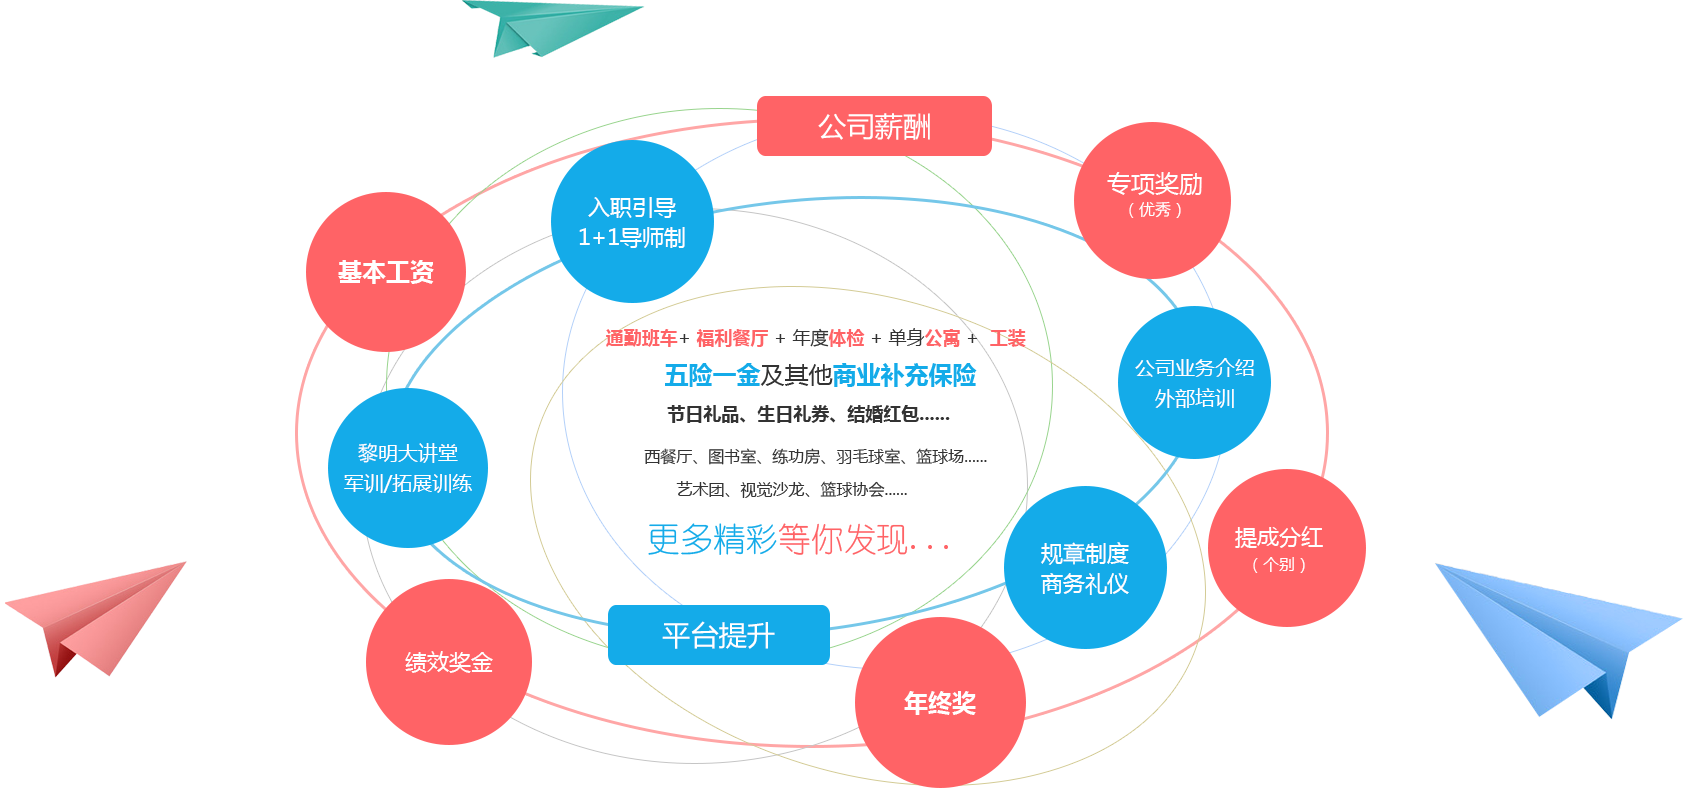
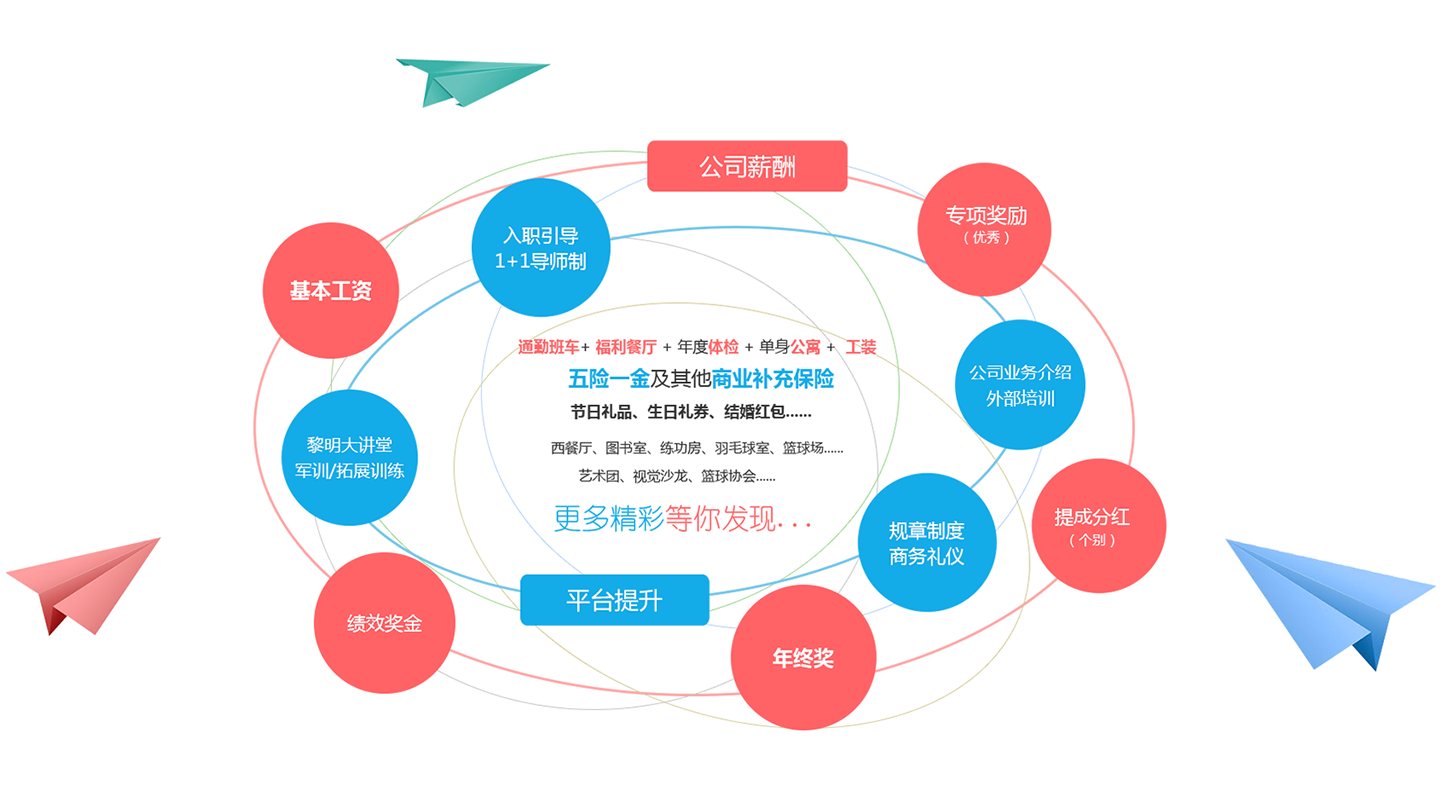
l

diff --git a/css/index.css b/css/index.css
@@ -1,1 +1,1 @@
-.banner img{max-width:100%;margin:0 auto;display:block}@media (min-width: 1000px){.lm-intro{padding-top:60px;padding-bottom:47px}}@media (min-width: 320px) and (max-width: 999px){.lm-intro{padding-top:30px;padding-bottom:20px}}.lm-intro h2{font-size:32px;font-weight:normal;text-align:center;padding-bottom:24px}.lm-intro p{line-height:30px;font-size:16px;padding-top:5px;padding-bottom:5px}.lm-intro p span{font-weight:bold;font-size:16px}.video-img{padding-bottom:70px}@media (min-width: 320px) and (max-width: 999px){.video-img{padding-bottom:40px}}.video-img video{max-width:100%;margin:0 auto;display:block}@media (min-width: 320px) and (max-width: 999px){.video-img video{margin-bottom:10px}}.video-img .img-12{padding-bottom:5px}.video-img .img-1{width:59%;float:left;padding-right:2.5px}.video-img .img-2{width:41%;padding-left:2.5px}.video-img .img-3{width:40%;padding-right:2.5px;float:left}.video-img .img-4{width:60%;padding-left:2.5px}.fuli{padding-bottom:50px}@media (min-width: 320px) and (max-width: 999px){.fuli{padding-top:10px}}@media (min-width: 320px) and (max-width: 999px){.fuli .ffll{display:none}}.fuli img{max-width:100%;margin:0 auto;display:block}.fuli h2{text-align:center;padding-top:40px;padding-bottom:40px}.fl{display:none}@media (min-width: 320px) and (max-width: 999px){.fl{display:block}}.liucheng .xm4{padding-top:15px;padding-bottom:20px}@media (min-width: 320px) and (max-width: 549px){.liucheng .xm4{width:100%}}.liucheng h2{font-size:32px;font-weight:normal;text-align:center;padding-bottom:27px}.liucheng h1{font-size:45px;font-weight:normal;text-align:center;border-bottom:1px solid #d5dde0;margin:0 43px}.liucheng p{padding-left:43px;font-size:16px;line-height:32px}@media (min-width: 500px) and (max-width: 600px){.liucheng p{padding-left:26px}}.liucheng .intr{padding-top:15px;padding-bottom:20px}.liucheng .xingcheng-1,.liucheng .xingcheng-3,.liucheng .xingcheng-5{background:#deeaee;border-radius:5%}.liucheng .xingcheng-1 h1,.liucheng .xingcheng-3 h1,.liucheng .xingcheng-5 h1{color:#14abe9;padding-top:14px}.liucheng .xingcheng-1 p span,.liucheng .xingcheng-3 p span,.liucheng .xingcheng-5 p span{color:#14abe9}.liucheng .xingcheng-2,.liucheng .xingcheng-4,.liucheng .xingcheng-6{background:#14abe9;border-radius:5%}.liucheng .xingcheng-2 h1,.liucheng .xingcheng-4 h1,.liucheng .xingcheng-6 h1{color:#ffffff;padding-top:14px}.liucheng .xingcheng-2 p,.liucheng .xingcheng-4 p,.liucheng .xingcheng-6 p{color:#ffffff}.job{padding-top:10px}.job p{font-size:16px;text-align:center}.job .beizhu{color:#14abe9;padding-top:5px}#float_slide{position:fixed;top:200px;right:30px;z-index:1}.know{text-align:center;padding-top:44px;padding-bottom:50px}@media (min-width: 320px) and (max-width: 999px){.know{padding-top:60px}}.know .lc{position:relative;padding-left:170px}@media (min-width: 320px) and (max-width: 999px){.know .lc{padding-left:0px}}.know span{font-size:24px;font-weight:bold}@media (min-width: 320px){.know span{left:0px;position:absolute;top:-41px}}@media (min-width: 1000px) and (max-width: 1199px){.know span{left:100px;position:absolute;top:36px}}@media (min-width: 1200px){.know span{left:180px;position:absolute;top:36px}}.know .llc{display:none}@media (min-width: 1000px){.know .llc{display:block}}.know .lc-1{display:none}@media (min-width: 760px) and (max-width: 999px){.know .lc-1{display:block}}.know .lc-2{display:none}@media (min-width: 320px) and (max-width: 759px){.know .lc-2{display:block}}.know .lc-2 img{margin:0 auto}.know .ab{padding-bottom:45px;padding-left:5px;padding-right:5px}.gangwei{background:#deeaee;padding-top:60px;padding-bottom:40px}.gangwei h1{font-size:32px;font-weight:normal;text-align:center;padding-bottom:32px}.gangwei table{width:100%}.gangwei table tr{border-bottom:1px solid #d1d9dc;line-height:41px}.gangwei table th{font-size:16px;text-align:center}.gangwei table td{text-align:center;font-size:16px}@media (max-width: 999px){.gangwei .noim{display:none}}.gangwei .tdjl{padding-top:10px}.daiyu{background:#14abe9;color:#ffffff}.daiyu .dy{padding-top:20px;padding-bottom:60px}.daiyu h1{padding-top:43px;font-weight:normal}.daiyu p{font-size:16px;line-height:38px}.toudi{padding-top:62px;padding-bottom:40px;background:#e7e7e7}.toudi h2{font-size:22px}.toudi p{font-size:18px;line-height:33px;padding-top:8px}.toudi p .s-1{color:#0e70a4}.toudi p .s-2{color:red}.dibu{background:#d7d7d7;padding-top:13px;padding-bottom:15px}.dibu p{text-align:center;font-size:14px;line-height:32px}#chance_rz{background:#e2eff7}@media (min-width: 1000px){#chance_rz{padding:15px 5%}}@media (min-width: 760px) and (max-width: 999px){#chance_rz{padding:15px 14%}}@media (min-width: 600px) and (max-width: 759px){#chance_rz{padding:15px 10%}}@media (min-width: 320px) and (max-width: 599px){#chance_rz{padding:15px 5%}}#chance_rz h4{padding-top:10px;padding-bottom:5px}.jobContent{display:none}.jobTitle img{max-width:100%;margin:0 auto;display:block;cursor:pointer}.h{margin:0 auto;display:block}@media (min-width: 1000px){.h{max-width:100%}}@media (max-width: 600px){.h{width:98%}}
+.banner img{max-width:100%;margin:0 auto;display:block}@media (min-width: 1000px){.lm-intro{padding-top:60px;padding-bottom:47px}}@media (min-width: 320px) and (max-width: 999px){.lm-intro{padding-top:30px;padding-bottom:20px}}.lm-intro h2{font-size:32px;font-weight:normal;text-align:center;padding-bottom:24px}.lm-intro p{line-height:30px;font-size:16px;padding-top:5px;padding-bottom:5px}.lm-intro p span{font-weight:bold;font-size:16px}.video-img{padding-bottom:70px}@media (min-width: 320px) and (max-width: 999px){.video-img{padding-bottom:40px}}.video-img video{max-width:100%;margin:0 auto;display:block}@media (min-width: 320px) and (max-width: 999px){.video-img video{margin-bottom:10px}}.video-img .img-12{padding-bottom:5px}.video-img .img-1{width:59%;float:left;padding-right:2.5px}.video-img .img-2{width:41%;padding-left:2.5px}.video-img .img-3{width:40%;padding-right:2.5px;float:left}.video-img .img-4{width:60%;padding-left:2.5px}@media (min-width: 320px) and (max-width: 999px){.fuli{padding-top:10px}}@media (min-width: 320px) and (max-width: 999px){.fuli .ffll{display:none}}.fuli img{margin:0 auto;display:block}@media (min-width: 1450px){.fuli img{max-width:1680px}}@media (max-width: 1442px){.fuli img{max-width:100%}}.fuli h2{text-align:center;padding-top:40px}.fl{display:none}@media (min-width: 320px) and (max-width: 999px){.fl{display:block}}.liucheng .xm4{padding-top:15px;padding-bottom:20px}@media (min-width: 320px) and (max-width: 549px){.liucheng .xm4{width:100%}}.liucheng h2{font-size:32px;font-weight:normal;text-align:center;padding-bottom:27px}.liucheng h1{font-size:45px;font-weight:normal;text-align:center;border-bottom:1px solid #d5dde0;margin:0 43px}.liucheng p{padding-left:43px;font-size:16px;line-height:32px}@media (min-width: 500px) and (max-width: 600px){.liucheng p{padding-left:26px}}.liucheng .intr{padding-top:15px;padding-bottom:20px}.liucheng .xingcheng-1,.liucheng .xingcheng-3,.liucheng .xingcheng-5{background:#deeaee;border-radius:5%}.liucheng .xingcheng-1 h1,.liucheng .xingcheng-3 h1,.liucheng .xingcheng-5 h1{color:#14abe9;padding-top:14px}.liucheng .xingcheng-1 p span,.liucheng .xingcheng-3 p span,.liucheng .xingcheng-5 p span{color:#14abe9}.liucheng .xingcheng-2,.liucheng .xingcheng-4,.liucheng .xingcheng-6{background:#14abe9;border-radius:5%}.liucheng .xingcheng-2 h1,.liucheng .xingcheng-4 h1,.liucheng .xingcheng-6 h1{color:#ffffff;padding-top:14px}.liucheng .xingcheng-2 p,.liucheng .xingcheng-4 p,.liucheng .xingcheng-6 p{color:#ffffff}.job{padding-top:10px}.job p{font-size:16px;text-align:center}.job .beizhu{color:#14abe9;padding-top:5px}#float_slide{position:fixed;top:200px;right:30px;z-index:1}.know{text-align:center;padding-top:44px;padding-bottom:50px}@media (min-width: 320px) and (max-width: 999px){.know{padding-top:60px}}.know .lc{position:relative;padding-left:170px}@media (min-width: 320px) and (max-width: 999px){.know .lc{padding-left:0px}}.know span{font-size:24px;font-weight:bold}@media (min-width: 320px){.know span{left:0px;position:absolute;top:-41px}}@media (min-width: 1000px) and (max-width: 1199px){.know span{left:100px;position:absolute;top:36px}}@media (min-width: 1200px){.know span{left:180px;position:absolute;top:36px}}.know .llc{display:none}@media (min-width: 1000px){.know .llc{display:block}}.know .lc-1{display:none}@media (min-width: 760px) and (max-width: 999px){.know .lc-1{display:block}}.know .lc-2{display:none}@media (min-width: 320px) and (max-width: 759px){.know .lc-2{display:block}}.know .lc-2 img{margin:0 auto}.know .ab{padding-bottom:45px;padding-left:5px;padding-right:5px}.gangwei{background:#deeaee;padding-top:60px;padding-bottom:40px}.gangwei h1{font-size:32px;font-weight:normal;text-align:center;padding-bottom:32px}.gangwei table{width:100%}.gangwei table tr{border-bottom:1px solid #d1d9dc;line-height:41px}.gangwei table th{font-size:16px;text-align:center}.gangwei table td{text-align:center;font-size:16px}@media (max-width: 999px){.gangwei .noim{display:none}}.gangwei .tdjl{padding-top:10px}.daiyu{background:#14abe9;color:#ffffff}.daiyu .dy{padding-top:20px;padding-bottom:60px}.daiyu h1{padding-top:43px;font-weight:normal}.daiyu p{font-size:16px;line-height:38px}.toudi{padding-top:62px;padding-bottom:40px;background:#e7e7e7}.toudi h2{font-size:22px}.toudi p{font-size:18px;line-height:33px;padding-top:8px}.toudi p .s-1{color:#0e70a4}.toudi p .s-2{color:red}.dibu{background:#d7d7d7;padding-top:13px;padding-bottom:15px}.dibu p{text-align:center;font-size:14px;line-height:32px}#chance_rz{background:#e2eff7}@media (min-width: 1000px){#chance_rz{padding:15px 5%}}@media (min-width: 760px) and (max-width: 999px){#chance_rz{padding:15px 14%}}@media (min-width: 600px) and (max-width: 759px){#chance_rz{padding:15px 10%}}@media (min-width: 320px) and (max-width: 599px){#chance_rz{padding:15px 5%}}#chance_rz h4{padding-top:10px;padding-bottom:5px}.jobContent{display:none}.jobTitle img{max-width:100%;margin:0 auto;display:block;cursor:pointer}.h{margin:0 auto;display:block}@media (min-width: 1000px){.h{max-width:100%}}@media (max-width: 600px){.h{width:98%}}

diff --git a/sass/index.sass b/sass/index.sass
@@ -53,21 +53,23 @@
         padding-left: 2.5px
 // 福利
 .fuli
-    // padding-top: 50px
-    padding-bottom: 50px
     @media (min-width: 320px) and (max-width: 999px)
         padding-top: 10px
     .ffll
         @media (min-width: 320px) and (max-width: 999px)
             display: none
-    img
-        max-width: 100%
+    img 
+        // max-width: 100%
         margin: 0 auto
         display: block
+        @media (min-width: 1450px)
+            max-width: 1680px  
+        @media (max-width: 1442px)    
+            max-width: 100%
+
     h2
         text-align: center
         padding-top: 40px
-        padding-bottom: 40px
 .fl
     display: none
     @media (min-width: 320px) and (max-width: 999px)

diff --git a/index.html b/index.html
@@ -585,10 +585,10 @@
     </div>
     <div class="fuli">
         <h2>我们的福利</h2>
-        <img class="res ffll" src="./img/fuli-1.png" alt="">
+        <img class="ffll res" src="./img/fuli-1.png" alt="" >
         <div class="fl ">
             <div class="container">
-                <img src="./img/fuli-2.png" alt="" class="img-res">
+                <img src="./img/fuli-2.png" alt="" class="res">
             </div>
         </div>
     </div>
